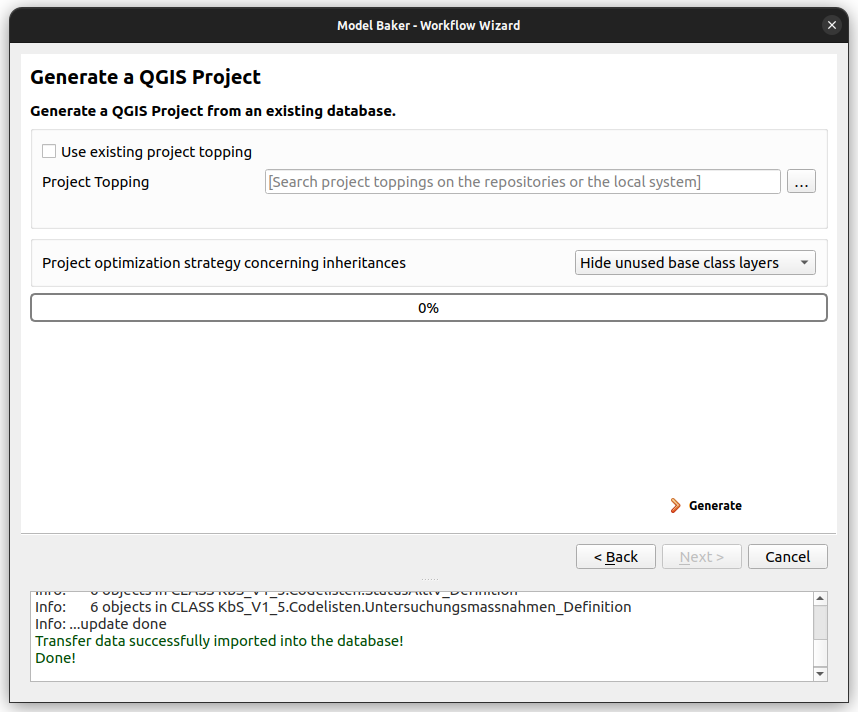
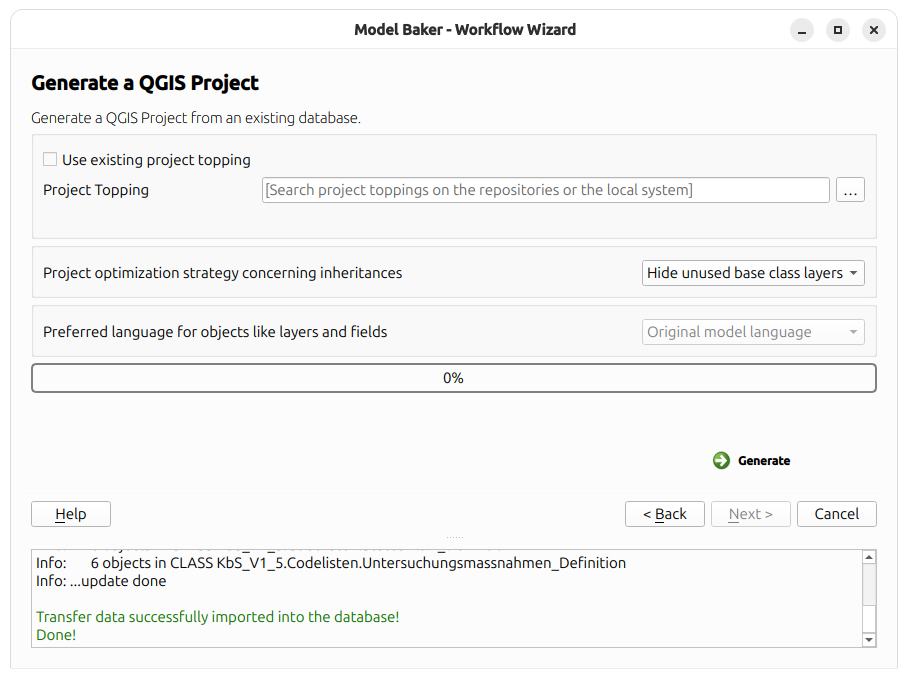
docu for language

Changed region(s): [[0.0, 0.0, 1.0, 1.0], [0.4848, 0.5258, 0.5152, 0.5876], [0.0606, 0.7423, 0.0909, 0.7732]]

diff --git a/docs/docs/user_guide/import_workflow.md b/docs/docs/user_guide/import_workflow.md
@@ -99,6 +99,13 @@ When this option is checked, Model Baker passes `--createBasketCol` to the ili2d
 
 When the dataset and basket handling is enabled, a default Dataset called `Baseset` will be created and the [page for basket creation](#create_baskets) will appear after schema import.
 
+### Multiple Geometries per Table in Geometries
+
+If the INTERLIS model has classes that contain multiple geometries, tables with multiple geometry columns can be created in GeoPackage
+
+!!! Note
+    This function is not standardized and such tables with multiple geometries require GDAL version >= 3.8 to run in QGIS. And although your GDAL version is finde, others with lower 3.8 versions will not be able to read such tables in the created QGIS project. Most modern QGIS versions on Windows have a GDAL version >= 3.8 packaged.
+
 ### Stroke Arcs
 
 If this option is activated, circular arcs are stroked when importing the data.
@@ -199,6 +206,10 @@ Choose your optimization strategy in the checkbox:
     As well you can optimize projects created with *smart1inheritance*. There it only appends the relevant type-values to the `t_type` dropdown box in the form, when ***Hide unused base class types*** is selected. A "grouping" optimization does not make sense for *smart1inheritance*.
 
 For more information about the optimization of extended models, see the [corresponding chapter](../../background_info/extended_models_optimization).
+
+### Preferred languagne for objects like layers and fields
+
+When the imported model is a translation model (`TRANSLATION OF`), you can choose whether the QGIS Project elements (such as layer names, field aliases, etc.) should be in the translation language or the language of the original model, independently of the language of the data source.
 
 ## 8. OID Values
 
